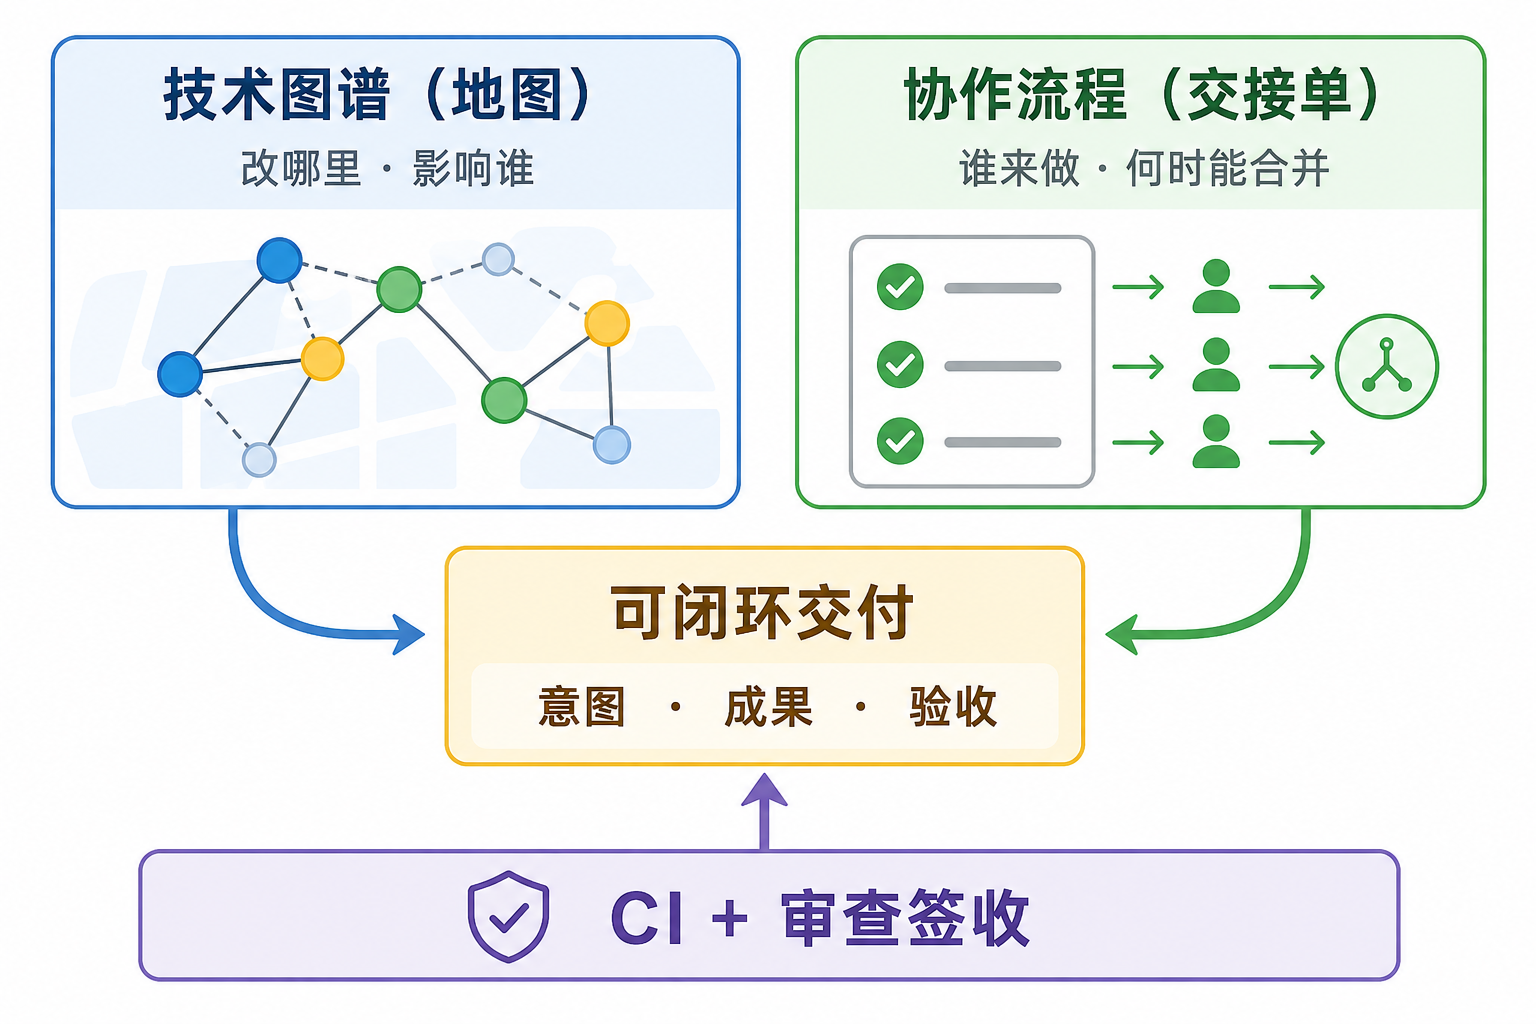
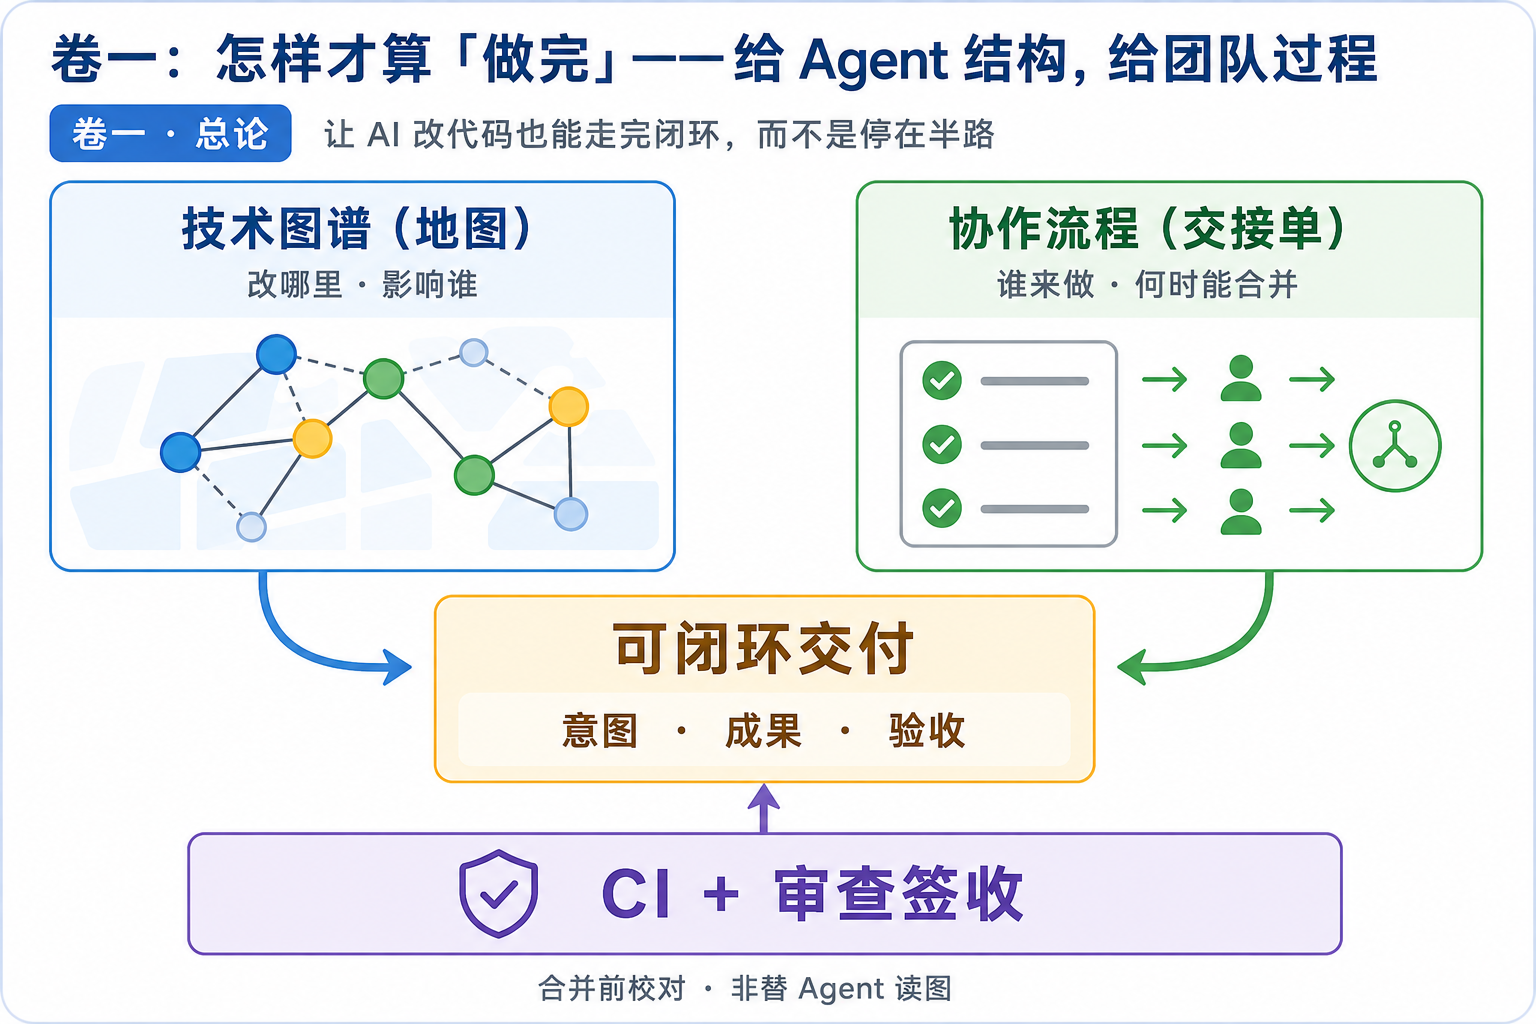
docs: 卷四腾讯云已发 — 状态同步与粘贴版阅读链
OUTLINE/README/SERIES 对齐 v1.3.0；PUBLISH 卷一/卷四系列阅读链；platform 腾讯云 URL 表。

diff --git a/README.md b/README.md
@@ -7,27 +7,27 @@
 | --- | --- |
 | **远程** | [`git@github.com:Cyning12/ai-coding-closed-loop-articles.git`](https://github.com/Cyning12/ai-coding-closed-loop-articles) |
 | **本地路径** | 聚合根 `Projects/` 内与 `ai_coding_governance/` **同级** |
-| **系列版本** | **[v1.3.0](SERIES_VERSION.md)**（卷一 v1.0.0 读者评修订 · 卷四 v1.0.1） |
+| **系列版本** | **[v1.3.0](SERIES_VERSION.md)**（卷一～卷四已 release · 腾讯云连载至卷四） |
 | **GitHub 字段** | [`GITHUB_REPO.md`](./GITHUB_REPO.md) |
 
 ---
 
 ## 阅读入口
 
-| 卷 | 文件 | 状态 |
-| --- | --- | --- |
-| **总目录** | [`ARTICLE_AI_Coding_可闭环协作_公众稿_OUTLINE_v1_zh.md`](./ARTICLE_AI_Coding_可闭环协作_公众稿_OUTLINE_v1_zh.md) | 活文档 |
-| **卷一** | [`ARTICLE_AI_Coding_可闭环协作_公众稿_v0.1_zh.md`](./ARTICLE_AI_Coding_可闭环协作_公众稿_v0.1_zh.md) | **release**（**v1.0.0** · 读者评修订） |
-| **卷二** | [`ARTICLE_AI_Coding_可闭环协作_公众稿_vol2_v0.8.2_zh.md`](./ARTICLE_AI_Coding_可闭环协作_公众稿_vol2_v0.8.2_zh.md) | **release**（v0.8.2） |
-| **卷三** | [`ARTICLE_AI_Coding_可闭环协作_公众稿_vol3_v1.4.0_zh.md`](./ARTICLE_AI_Coding_可闭环协作_公众稿_vol3_v1.4.0_zh.md) | **release**（v1.4.0） |
-| **卷四** | [`ARTICLE_AI_Coding_可闭环协作_公众稿_vol4_v1.0.0_zh.md`](./ARTICLE_AI_Coding_可闭环协作_公众稿_vol4_v1.0.0_zh.md) | **release**（**v1.0.1**） |
-| **卷一 · 粘贴版** | [`assets/PUBLISH_卷一_公众平台粘贴版_v1.0.0_zh.md`](./assets/PUBLISH_卷一_公众平台粘贴版_v1.0.0_zh.md) | 掘金 / 公众号一键复制 |
-| **卷二 · 粘贴版** | [`assets/PUBLISH_卷二_公众平台粘贴版_v0.8.2_zh.md`](./assets/PUBLISH_卷二_公众平台粘贴版_v0.8.2_zh.md) | 掘金 / 公众号一键复制 |
-| **卷三 · 粘贴版** | [`assets/PUBLISH_卷三_公众平台粘贴版_v1.4.0_zh.md`](./assets/PUBLISH_卷三_公众平台粘贴版_v1.4.0_zh.md) | 腾讯云 / 掘金 / 公众号 |
-| **卷四 · 粘贴版** | [`assets/PUBLISH_卷四_公众平台粘贴版_v1.0.1_zh.md`](./assets/PUBLISH_卷四_公众平台粘贴版_v1.0.1_zh.md) | 腾讯云 / 掘金 / 公众号 |
-| **配图提示词** | [`prompts/figures/`](./prompts/figures/) | 封面 / 可选信息图（**非正文**） |
+| 卷 | 文件 | 状态 | 腾讯云 |
+| --- | --- | --- | --- |
+| **总目录** | [`ARTICLE_AI_Coding_可闭环协作_公众稿_OUTLINE_v1_zh.md`](./ARTICLE_AI_Coding_可闭环协作_公众稿_OUTLINE_v1_zh.md) | 活文档 | — |
+| **卷一** | [`ARTICLE_AI_Coding_可闭环协作_公众稿_v0.1_zh.md`](./ARTICLE_AI_Coding_可闭环协作_公众稿_v0.1_zh.md) | **release**（**v1.0.0**） | [已发](https://cloud.tencent.com/developer/article/2675471) |
+| **卷二** | [`ARTICLE_AI_Coding_可闭环协作_公众稿_vol2_v0.8.2_zh.md`](./ARTICLE_AI_Coding_可闭环协作_公众稿_vol2_v0.8.2_zh.md) | **release**（v0.8.2） | [已发](https://cloud.tencent.com/developer/article/2676250) |
+| **卷三** | [`ARTICLE_AI_Coding_可闭环协作_公众稿_vol3_v1.4.0_zh.md`](./ARTICLE_AI_Coding_可闭环协作_公众稿_vol3_v1.4.0_zh.md) | **release**（v1.4.0） | [已发](https://cloud.tencent.com/developer/article/2678669) |
+| **卷四** | [`ARTICLE_AI_Coding_可闭环协作_公众稿_vol4_v1.0.0_zh.md`](./ARTICLE_AI_Coding_可闭环协作_公众稿_vol4_v1.0.0_zh.md) | **release**（**v1.0.1** · 2026-06-01） | [已发](https://cloud.tencent.com/developer/article/2680278) |
+| **卷一 · 粘贴版** | [`assets/PUBLISH_卷一_公众平台粘贴版_v1.0.0_zh.md`](./assets/PUBLISH_卷一_公众平台粘贴版_v1.0.0_zh.md) | 掘金 / 腾讯云 | 同上 |
+| **卷二 · 粘贴版** | [`assets/PUBLISH_卷二_公众平台粘贴版_v0.8.2_zh.md`](./assets/PUBLISH_卷二_公众平台粘贴版_v0.8.2_zh.md) | 掘金 / 腾讯云 | 同上 |
+| **卷三 · 粘贴版** | [`assets/PUBLISH_卷三_公众平台粘贴版_v1.4.0_zh.md`](./assets/PUBLISH_卷三_公众平台粘贴版_v1.4.0_zh.md) | 腾讯云 / 掘金 | 同上 |
+| **卷四 · 粘贴版** | [`assets/PUBLISH_卷四_公众平台粘贴版_v1.0.1_zh.md`](./assets/PUBLISH_卷四_公众平台粘贴版_v1.0.1_zh.md) | 腾讯云 / 掘金 | 同上 |
+| **配图提示词** | [`prompts/figures/`](./prompts/figures/) | 封面 / 可选信息图（**非正文**） | — |
 
-**建议阅读顺序**：OUTLINE → 卷一 → 卷二 → 卷三 → 卷四。文内 Mermaid 在 GitHub / 掘金 Markdown 下可直接渲染。
+**建议阅读顺序**：OUTLINE → [卷一](https://cloud.tencent.com/developer/article/2675471) → [卷二](https://cloud.tencent.com/developer/article/2676250) → [卷三](https://cloud.tencent.com/developer/article/2678669) → [卷四](https://cloud.tencent.com/developer/article/2680278) → 卷五（筹备）。GitHub 定稿见上表 `ARTICLE_*`。
 
 ---
 

diff --git a/assets/PUBLISH_卷一_公众平台粘贴版_v1.0.0_zh.md b/assets/PUBLISH_卷一_公众平台粘贴版_v1.0.0_zh.md
@@ -1,5 +1,6 @@
 > **2026-06-01** · 系列《AI 编程可闭环协作》卷一 · release **v1.0.0** · 侧重 AI Coding 工程协作与质量闭环（非 Prompt 技巧大全）
 > **系列文稿（Markdown）**：[github.com/Cyning12/ai-coding-closed-loop-articles](https://github.com/Cyning12/ai-coding-closed-loop-articles)
+> **系列阅读**：[卷二：技术图谱——让 Agent 先看地图再动手](https://cloud.tencent.com/developer/article/2676250) · [卷三：Harness 与 SDD——让改动可签收、可合并](https://cloud.tencent.com/developer/article/2678669) · [卷四：闭环交付与经验沉淀——从 SPEC 到关账摘要](https://cloud.tencent.com/developer/article/2680278) · 卷五：存量项目与渐进路线（连载筹备）
 
 ---
 
@@ -7,22 +8,15 @@
 
 | 节 | 标题 |
 | --- | --- |
-| — | [摘要](#摘要) |
-| 0 | [缘起：个人约束与团队经验](#0-缘起个人约束与团队经验) |
-| 1 | [为什么「会写代码」不等于「能交付」](#1-为什么会写代码不等于能交付) |
-| 2 | [两条轨：结构（图谱）与过程（协作流程）](#2-两条轨结构图谱与过程协作流程) |
-| | 2.1 [技术图谱：让 Agent「先看地图再动手」](#21-技术图谱让-agent先看地图再动手) |
-| | 2.2 [协作流程：可签收、可合并](#22-harness协作流程--任务单流程让协作可签收可合并) |
-| | 2.3 [叠放：缺一条都会「差点意思」](#23-叠放缺一条都会差点意思) |
-| 3 | [一轮交付怎样算「做完」：意图、成果、验收](#3-一轮交付怎样算做完意图成果验收) |
-| 4 | [与 TDD、Code Review、DevOps 的关系](#4-与-tddcode-reviewdevops-的关系) |
-| 5 | [适合谁、不适合谁](#5-适合谁不适合谁) |
-| 6 | [最小起步（给想试的读者）](#6-最小起步给想试的读者) |
-| 7 | [结语](#7-结语) |
-
-> ### **系列后续**
-
-后续卷（图谱落地、协作流程细节、案例与 FAQ 等）见 [**系列总目录**](ARTICLE_AI_Coding_可闭环协作_公众稿_OUTLINE_v1_zh.md)。
+| — | 摘要 |
+| 0 | 缘起：个人约束与团队经验 |
+| 1 | 为什么「会写代码」不等于「能交付」 |
+| 2 | 两条轨：结构（图谱）与过程（协作流程） |
+| 3 | 一轮交付怎样算「做完」：意图、成果、验收 |
+| 4 | 与 TDD、Code Review、DevOps 的关系 |
+| 5 | 适合谁、不适合谁 |
+| 6 | 最小起步（给想试的读者） |
+| 7 | 结语 |
 
 ---
 

diff --git a/assets/PUBLISH_卷四_公众平台粘贴版_v1.0.1_zh.md b/assets/PUBLISH_卷四_公众平台粘贴版_v1.0.1_zh.md
@@ -1,6 +1,6 @@
 > **2026-06-01** · 系列《AI 编程可闭环协作》卷四 · release **v1.0.1** · 闭环交付与经验沉淀——从 SPEC 到关账摘要
 > **系列文稿（Markdown）**：[github.com/Cyning12/ai-coding-closed-loop-articles](https://github.com/Cyning12/ai-coding-closed-loop-articles)
-> **阅读顺序**：建议先读[卷一](https://cloud.tencent.com/developer/article/2675471)、[卷二](https://cloud.tencent.com/developer/article/2676250)、[卷三（GitHub 定稿）](https://github.com/Cyning12/ai-coding-closed-loop-articles/blob/main/ARTICLE_AI_Coding_可闭环协作_公众稿_vol3_v1.4.0_zh.md)，再读本篇。
+> **阅读顺序**：[卷一](https://cloud.tencent.com/developer/article/2675471) · [卷二](https://cloud.tencent.com/developer/article/2676250) · [卷三](https://cloud.tencent.com/developer/article/2678669) · **本篇（卷四）** · 卷五（连载筹备）
 
 ---
 

diff --git a/SERIES_VERSION.md b/SERIES_VERSION.md
@@ -1,6 +1,6 @@
 # 系列版本约定（公众稿）
 
-> **当前系列版本**：**`v1.3.0`** — 卷一 **v1.0.0** 读者评修订 + 卷四 **v1.0.1**（2026-06-01）。  
+> **当前系列版本**：**`v1.3.0`** — 卷一～卷四 **release + 腾讯云已发**（卷四 [2680278](https://cloud.tencent.com/developer/article/2680278) · 2026-06-01）。  
 > **详规**：本文件；维护者私仓有同步副本。
 
 ---
@@ -53,4 +53,4 @@ git push origin series-v1.3.0
 | 2026-05-30 | 卷三发表 → 系列 v1.1.0 |
 | 2026-06-01 | 卷四首发 → 系列 v1.2.0 |
 | 2026-06-01 | 卷四 v1.0.1 读者评小改 → 系列 v1.2.1 |
-| 2026-06-01 | 卷一 v1.0.0 读者评修订 + 卷四粘贴版 v1.0.1 → 系列 **v1.3.0** |
+| 2026-06-01 | 卷四腾讯云发表 [2680278](https://cloud.tencent.com/developer/article/2680278) · 系列 v1.3.0 定稿 |
